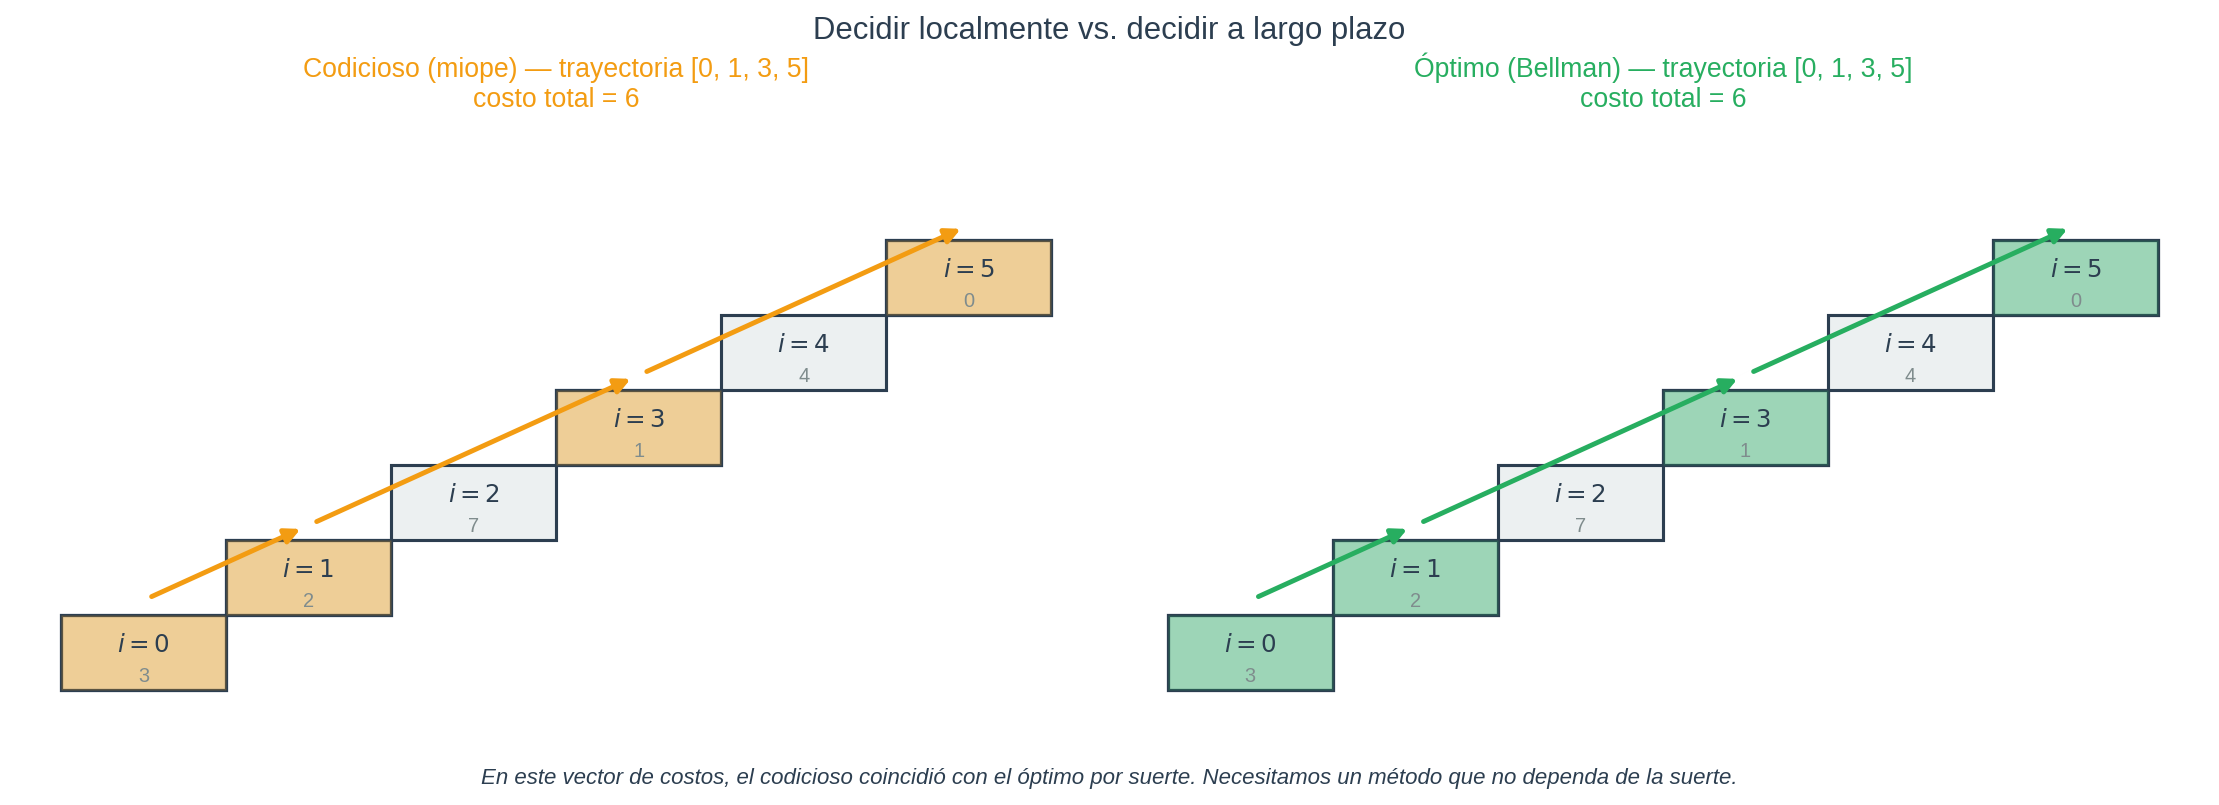
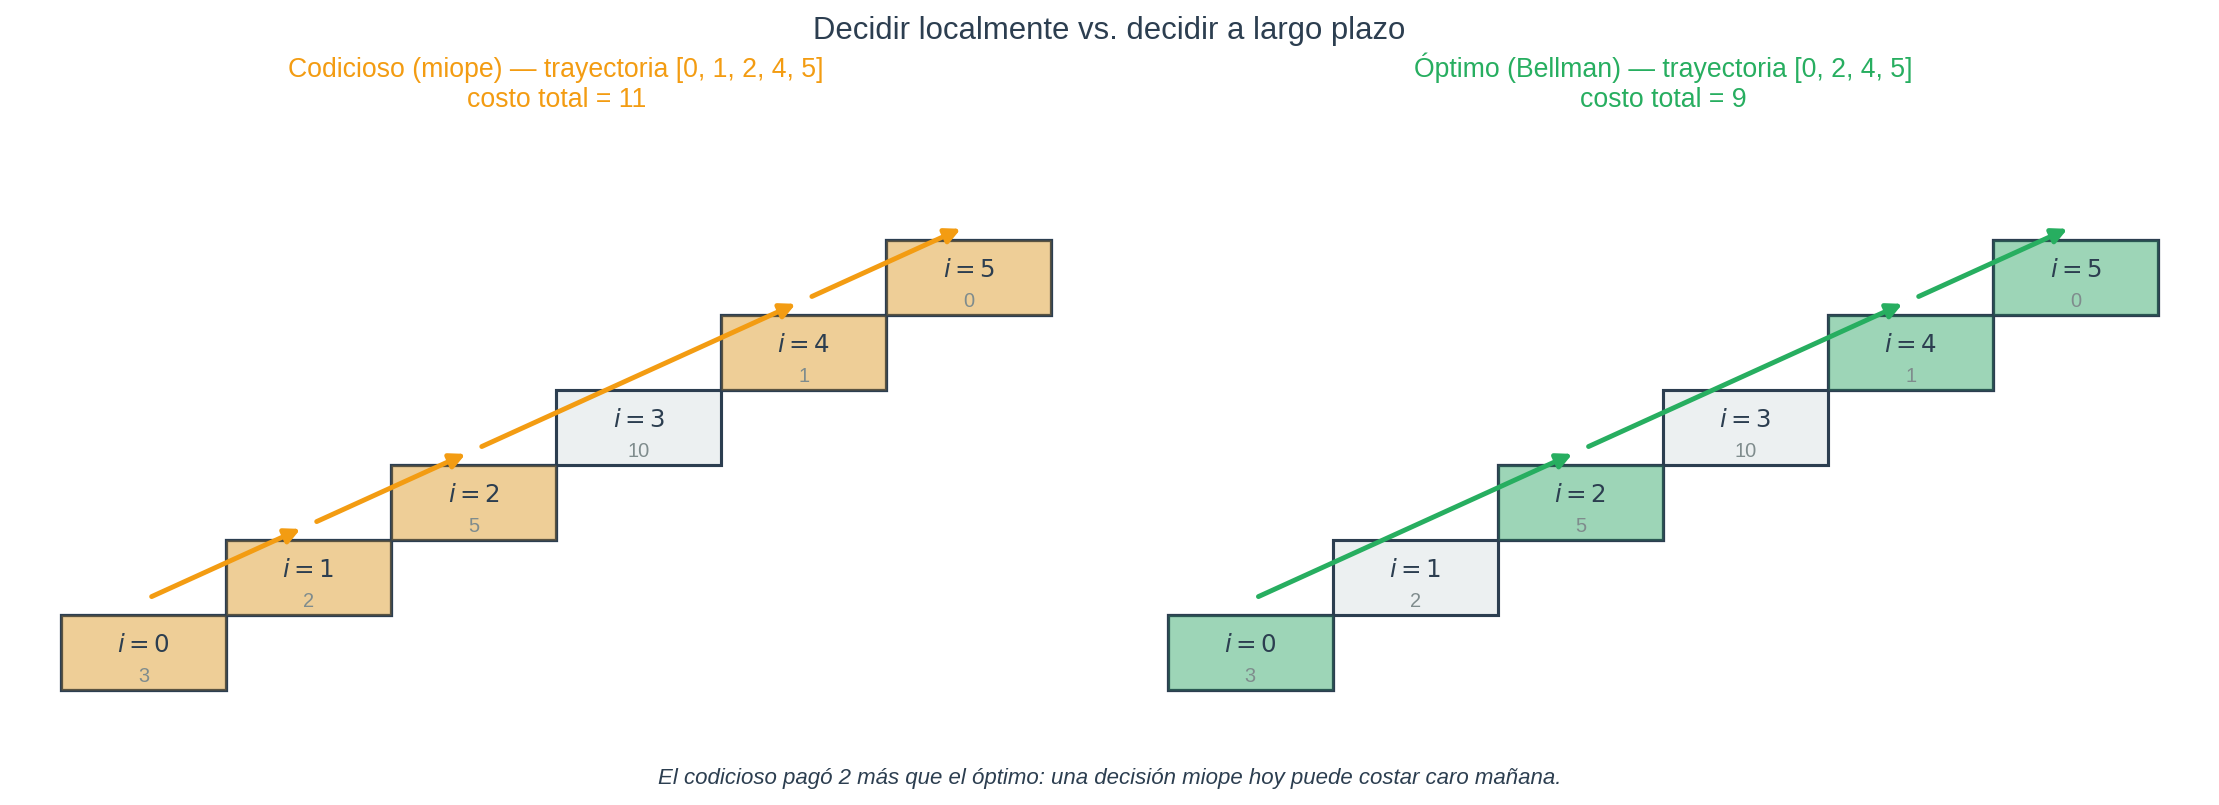
math

diff --git a/clase/21_programacion_dinamica/lab_bellman_dp.py b/clase/21_programacion_dinamica/lab_bellman_dp.py
@@ -41,23 +41,25 @@ np.random.seed(42)
 
 # ── Running example — the staircase ────────────────────────────────────────────
 # States 0..5, costs per step. Action set: {subir 1, saltar 2}. Goal = state 5.
-COSTS       = np.array([3, 2, 7, 1, 4, 0])
+# Costs deliberately chosen so greedy (pick cheaper next state) *fails*:
+# greedy picks state 1 as a cheap decoy but ends up at state 2 anyway.
+COSTS       = np.array([3, 2, 5, 10, 1, 0])
 N_STATES    = len(COSTS)
 GOAL        = N_STATES - 1
 
 # ── Pre-verified deterministic values (see design doc D2) ──────────────────────
-V_DET       = np.array([6, 3, 8, 1, 4, 0])
-POLICY_DET  = ["subir 1", "saltar 2", "subir 1", "saltar 2", "subir 1", "—"]
-TRAJ_DET    = [0, 1, 3, 5]
-COST_DET    = 6
+V_DET       = np.array([9, 8, 6, 10, 1, 0])
+POLICY_DET  = ["saltar 2", "subir 1", "saltar 2", "saltar 2", "subir 1", "—"]
+TRAJ_DET    = [0, 2, 4, 5]
+COST_DET    = 9
 
 # ── Pre-verified stochastic values ─────────────────────────────────────────────
 # Action "saltar 2" lands at i+2 w.p. 0.8, slips to i+1 w.p. 0.2.
 # From state 4 only "subir 1" is available (i+2 > 5).
 P_SUCCESS   = 0.8
 P_SLIP      = 0.2
-V_STOCH     = np.array([8.2, 5.2, 8.8, 1.8, 4.0, 0.0])
-POLICY_STOCH = ["subir 1", "saltar 2", "subir 1", "saltar 2", "subir 1", "—"]
+V_STOCH     = np.array([11.24, 9.84, 7.84, 10.2, 1.0, 0.0])
+POLICY_STOCH = ["saltar 2", "subir 1", "saltar 2", "saltar 2", "subir 1", "—"]
 
 
 def _save(fig, name):
@@ -342,7 +344,7 @@ def plot_escalera_estocastica():
     ax.set_ylim(-0.2, N_STATES * 0.5 + 0.8)
     ax.set_aspect("equal")
     ax.set_axis_off()
-    ax.set_title("Determinista — $V(0) = 6$", color=COLORS["blue"], fontsize=12)
+    ax.set_title("Determinista — $V(0) = 9$", color=COLORS["blue"], fontsize=12)
 
     # Right panel — stochastic
     ax = axes[1]
@@ -358,18 +360,18 @@ def plot_escalera_estocastica():
         ax.text(x, y - 0.17, f"$V={V_STOCH[i]}$", ha="center", va="center",
                 fontsize=9.5, color=COLORS["red"], fontweight="bold")
 
-    # Branching transitions for "saltar 2" from state 1
-    sx = 1 * 1.1 + 1.1 / 2
-    sy = 1 * 0.5 + 0.5
-    # Success branch: lands at 3
-    tx = 3 * 1.1 + 1.1 / 2
-    ty = 3 * 0.5 + 0.5
+    # Branching transitions for "saltar 2" from state 2 (which takes saltar 2 optimally)
+    sx = 2 * 1.1 + 1.1 / 2
+    sy = 2 * 0.5 + 0.5
+    # Success branch: lands at 4
+    tx = 4 * 1.1 + 1.1 / 2
+    ty = 4 * 0.5 + 0.5
     _arrow(ax, sx, sy + 0.1, tx, ty + 0.1, color=COLORS["green"], width=1.8)
     ax.text((sx + tx) / 2, (sy + ty) / 2 + 0.55, "0.8",
             ha="center", color=COLORS["green"], fontsize=9.5, fontweight="bold")
-    # Slip branch: lands at 2
-    tx = 2 * 1.1 + 1.1 / 2
-    ty = 2 * 0.5 + 0.5
+    # Slip branch: lands at 3
+    tx = 3 * 1.1 + 1.1 / 2
+    ty = 3 * 0.5 + 0.5
     _arrow(ax, sx, sy + 0.1, tx, ty + 0.1, color=COLORS["red"], width=1.8,
            style="-|>")
     ax.text((sx + tx) / 2, (sy + ty) / 2 + 0.28, "0.2 (resbala)",
@@ -379,7 +381,7 @@ def plot_escalera_estocastica():
     ax.set_ylim(-0.2, N_STATES * 0.5 + 0.8)
     ax.set_aspect("equal")
     ax.set_axis_off()
-    ax.set_title("Estocástico — $V(0) = 8.2$\n(precio de la incertidumbre: $8.2 - 6 = 2.2$)",
+    ax.set_title("Estocástico — $V(0) = 11.24$\n(precio de la incertidumbre: $11.24 - 9 = 2.24$)",
                  color=COLORS["red"], fontsize=12)
 
     fig.suptitle("Misma escalera, con probabilidad de resbalar",

diff --git a/clase/21_programacion_dinamica/02_escalera_bellman.md b/clase/21_programacion_dinamica/02_escalera_bellman.md
@@ -23,7 +23,7 @@ Cada escalón te cuesta algo en energía (cansancio, tiempo, lo que quieras imag
 
 | Escalón $i$ | 0 | 1 | 2 | 3 | 4 | 5 |
 |:-----------:|:-:|:-:|:-:|:-:|:-:|:-:|
-| Costo $c_i$ | 3 | 2 | 7 | 1 | 4 | 0 |
+| Costo $c_i$ | 3 | 2 | 5 | 10 | 1 | 0 |
 
 El costo total que pagas es la suma de los costos de los escalones donde *aterrizas*. La pregunta es simple:
 
@@ -33,21 +33,26 @@ El costo total que pagas es la suma de los costos de los escalones donde *aterri
 
 ---
 
-## El intento codicioso — ¿funciona?
+## El intento codicioso — y cómo falla
 
 Antes de pensar en grande, probemos la estrategia codiciosa: **en cada paso, elige el escalón siguiente más barato**.
 
-- Desde 0: puedes ir a 1 (costo 2) o a 2 (costo 7). Elige **1**.
-- Desde 1: puedes ir a 2 (costo 7) o a 3 (costo 1). Elige **3**.
-- Desde 3: puedes ir a 4 (costo 4) o a 5 (costo 0). Elige **5**.
+- Desde **0**: puedes ir a 1 (costo 2) o a 2 (costo 5). Elige **1** (cuesta menos).
+- Desde **1**: puedes ir a 2 (costo 5) o a 3 (costo 10). Elige **2**.
+- Desde **2**: puedes ir a 3 (costo 10) o a 4 (costo 1). Elige **4** (saltar 2).
+- Desde **4**: sube 1. Llegas a 5.
 
-Trayectoria codiciosa: **0 → 1 → 3 → 5**. Costo total: $3 + 2 + 1 + 0 = 6$.
+Trayectoria codiciosa: **0 → 1 → 2 → 4 → 5**. Costo total: $3 + 2 + 5 + 1 + 0 = 11$.
 
 ![Codicioso vs. óptimo]({{ '/21_programacion_dinamica/images/02_greedy_vs_optimo.png' | url }})
 
-En este vector de costos particular, el codicioso tuvo suerte: su trayectoria resultó ser la óptima. Pero eso no es porque la codicia sea buena estrategia — es porque los costos nos quedaron benignos. **Queremos un método que funcione sin depender de la suerte.**
+Ahora mira esta otra trayectoria — **0 → 2 → 4 → 5** — con costo $3 + 5 + 1 + 0 = 9$. ¡Más barata!
 
-Vamos a construirlo.
+¿Por qué? Porque pasar por el escalón 1 es *inútil*: el codicioso paga su costo de 2, pero aterriza en el escalón 2 — el mismo al que habría llegado saltando directo desde 0. El desvío por 1 no compró nada, solo cobró. El codicioso, midiendo solo el siguiente escalón, no pudo verlo.
+
+Esa es la trampa: **una decisión locamente buena puede llevarte a un lugar donde las decisiones siguientes son iguales o peores que si hubieras elegido distinto**. No basta comparar escalón contra escalón — hay que pensar en *secuencias*.
+
+Queremos un método que nunca caiga en este tipo de trampa. Vamos a construirlo.
 
 ---
 
@@ -63,7 +68,7 @@ Tu tarea: llenar la siguiente tabla, de derecha a izquierda.
 
 | Escalón $i$ | 0 | 1 | 2 | 3 | 4 | 5 |
 |:-----------:|:-:|:-:|:-:|:-:|:-:|:-:|
-| Costo $c_i$ | 3 | 2 | 7 | 1 | 4 | 0 |
+| Costo $c_i$ | 3 | 2 | 5 | 10 | 1 | 0 |
 | Valor $V(i)$ | ? | ? | ? | ? | ? | ? |
 
 Vamos a ir paso por paso.
@@ -76,34 +81,34 @@ $$V(5) = 0.$$
 
 ### Paso 2 — desde el escalón 4
 
-Desde 4 la única jugada es **subir 1** (saltar 2 te sacaría de la escalera). Pagas $c_4 = 4$ y llegas a 5, donde el costo restante es $V(5) = 0$:
+Desde 4 la única jugada es **subir 1** (saltar 2 te sacaría de la escalera). Pagas $c_4 = 1$ y llegas a 5, donde el costo restante es $V(5) = 0$:
 
-$$V(4) = c_4 + V(5) = 4 + 0 = 4.$$
+$$V(4) = c_4 + V(5) = 1 + 0 = 1.$$
 
 ### Paso 3 — desde el escalón 3
 
 Desde 3 tienes dos opciones:
 
-- Subir 1 (vas a 4): pagas $c_3 + V(4) = 1 + 4 = 5$.
-- Saltar 2 (vas a 5): pagas $c_3 + V(5) = 1 + 0 = 1$.
+- Subir 1 (vas a 4): pagas $c_3 + V(4) = 10 + 1 = 11$.
+- Saltar 2 (vas a 5): pagas $c_3 + V(5) = 10 + 0 = 10$.
 
 Elegimos la más barata:
 
-$$V(3) = c_3 + \min\bigl(V(4),\; V(5)\bigr) = 1 + \min(4, 0) = 1. \quad [\text{acción: saltar 2}]$$
+$$V(3) = c_3 + \min\bigl(V(4),\; V(5)\bigr) = 10 + \min(1, 0) = 10. \quad [\text{acción: saltar 2}]$$
 
 ### Paso 4 — desde el escalón 2
 
-- Subir 1 (vas a 3): $c_2 + V(3) = 7 + 1 = 8$.
-- Saltar 2 (vas a 4): $c_2 + V(4) = 7 + 4 = 11$.
+- Subir 1 (vas a 3): $c_2 + V(3) = 5 + 10 = 15$.
+- Saltar 2 (vas a 4): $c_2 + V(4) = 5 + 1 = 6$.
 
-$$V(2) = c_2 + \min\bigl(V(3),\; V(4)\bigr) = 7 + \min(1, 4) = 8. \quad [\text{acción: subir 1}]$$
+$$V(2) = c_2 + \min\bigl(V(3),\; V(4)\bigr) = 5 + \min(10, 1) = 6. \quad [\text{acción: saltar 2}]$$
 
 ### Paso 5 — desde el escalón 1
 
-- Subir 1 (vas a 2): $c_1 + V(2) = 2 + 8 = 10$.
-- Saltar 2 (vas a 3): $c_1 + V(3) = 2 + 1 = 3$.
+- Subir 1 (vas a 2): $c_1 + V(2) = 2 + 6 = 8$.
+- Saltar 2 (vas a 3): $c_1 + V(3) = 2 + 10 = 12$.
 
-$$V(1) = c_1 + \min\bigl(V(2),\; V(3)\bigr) = 2 + \min(8, 1) = 3. \quad [\text{acción: saltar 2}]$$
+$$V(1) = c_1 + \min\bigl(V(2),\; V(3)\bigr) = 2 + \min(6, 10) = 8. \quad [\text{acción: subir 1}]$$
 
 ---
 
@@ -119,20 +124,22 @@ No te preocupes, todavía no le ponemos nombre. Termina la tabla.
 
 ### Paso 6 — desde el escalón 0
 
-- Subir 1 (vas a 1): $c_0 + V(1) = 3 + 3 = 6$.
-- Saltar 2 (vas a 2): $c_0 + V(2) = 3 + 8 = 11$.
+- Subir 1 (vas a 1): $c_0 + V(1) = 3 + 8 = 11$.
+- Saltar 2 (vas a 2): $c_0 + V(2) = 3 + 6 = 9$.
 
-$$V(0) = c_0 + \min\bigl(V(1),\; V(2)\bigr) = 3 + \min(3, 8) = 6. \quad [\text{acción: subir 1}]$$
+$$V(0) = c_0 + \min\bigl(V(1),\; V(2)\bigr) = 3 + \min(8, 6) = 9. \quad [\text{acción: saltar 2}]$$
 
 ### La tabla, llena
 
 | Escalón $i$ | 0 | 1 | 2 | 3 | 4 | 5 |
 |:-----------:|:-:|:-:|:-:|:-:|:-:|:-:|
-| Costo $c_i$ | 3 | 2 | 7 | 1 | 4 | 0 |
-| Valor $V(i)$ | **6** | **3** | **8** | **1** | **4** | **0** |
-| Acción óptima | subir 1 | saltar 2 | subir 1 | saltar 2 | subir 1 | — |
+| Costo $c_i$ | 3 | 2 | 5 | 10 | 1 | 0 |
+| Valor $V(i)$ | **9** | **8** | **6** | **10** | **1** | **0** |
+| Acción óptima | saltar 2 | subir 1 | saltar 2 | saltar 2 | subir 1 | — |
 
-**Política óptima:** desde 0 sube 1, desde 1 salta 2, desde 3 salta 2. **Trayectoria:** $0 \to 1 \to 3 \to 5$. **Costo total:** $3 + 2 + 1 + 0 = 6$. Coincide con lo que calculamos con $V(0)$.
+**Política óptima:** desde 0 salta 2, desde 2 salta 2, desde 4 sube 1. **Trayectoria:** $0 \to 2 \to 4 \to 5$. **Costo total:** $3 + 5 + 1 + 0 = 9$. Coincide con $V(0) = 9$.
+
+Compara con el codicioso: **0 → 1 → 2 → 4 → 5** costaba 11. La política óptima ahorra 2 unidades de costo — y esa diferencia crece sin límite si la escalera es más grande, porque el codicioso vuelve a caer en trampas parecidas cada vez que haya un escalón *decoy* como el 1. Lo logró *saltando el escalón 1*, precisamente porque pensó en la secuencia completa en lugar del siguiente escalón.
 
 ![Tabla de valores llena de derecha a izquierda]({{ '/21_programacion_dinamica/images/03_tabla_valores.png' | url }})
 
@@ -173,48 +180,48 @@ Esto **es** la ecuación de Bellman en su forma general. La suma es sobre todos 
 
 ### Rellenemos la tabla estocástica
 
-Desde el escalón 4 solo hay una acción (subir 1), igual que antes: $V(4) = 4$.
+Desde el escalón 4 solo hay una acción (subir 1), igual que antes: $V(4) = 1$.
 
 Desde el escalón 3:
 
-- Acción "subir 1" (determinista, va a 4): $c_3 + V(4) = 1 + 4 = 5$.
-- Acción "saltar 2" (va a 5 con prob. 0.8, a 4 con prob. 0.2): $c_3 + 0.8 \cdot V(5) + 0.2 \cdot V(4) = 1 + 0 + 0.8 = 1.8$.
+- Acción "subir 1" (determinista, va a 4): $c_3 + V(4) = 10 + 1 = 11$.
+- Acción "saltar 2" (va a 5 con prob. 0.8, a 4 con prob. 0.2): $c_3 + 0.8 \cdot V(5) + 0.2 \cdot V(4) = 10 + 0 + 0.2 = 10.2$.
 
-$$V(3) = \min(5,\, 1.8) = 1.8. \quad [\text{acción: saltar 2}]$$
+$$V(3) = \min(11,\, 10.2) = 10.2. \quad [\text{acción: saltar 2}]$$
 
 Desde el escalón 2:
 
-- "Subir 1" (va a 3): $c_2 + V(3) = 7 + 1.8 = 8.8$.
-- "Saltar 2" (va a 4 con prob. 0.8, a 3 con prob. 0.2): $c_2 + 0.8 \cdot V(4) + 0.2 \cdot V(3) = 7 + 3.2 + 0.36 = 10.56$.
+- "Subir 1" (va a 3): $c_2 + V(3) = 5 + 10.2 = 15.2$.
+- "Saltar 2" (va a 4 con prob. 0.8, a 3 con prob. 0.2): $c_2 + 0.8 \cdot V(4) + 0.2 \cdot V(3) = 5 + 0.8 + 2.04 = 7.84$.
 
-$$V(2) = \min(8.8,\, 10.56) = 8.8. \quad [\text{acción: subir 1}]$$
+$$V(2) = \min(15.2,\, 7.84) = 7.84. \quad [\text{acción: saltar 2}]$$
 
 Desde el escalón 1:
 
-- "Subir 1" (va a 2): $2 + V(2) = 2 + 8.8 = 10.8$.
-- "Saltar 2" (va a 3 con prob. 0.8, a 2 con prob. 0.2): $2 + 0.8 \cdot V(3) + 0.2 \cdot V(2) = 2 + 1.44 + 1.76 = 5.2$.
+- "Subir 1" (va a 2): $2 + V(2) = 2 + 7.84 = 9.84$.
+- "Saltar 2" (va a 3 con prob. 0.8, a 2 con prob. 0.2): $2 + 0.8 \cdot V(3) + 0.2 \cdot V(2) = 2 + 8.16 + 1.568 = 11.728$.
 
-$$V(1) = \min(10.8,\, 5.2) = 5.2. \quad [\text{acción: saltar 2}]$$
+$$V(1) = \min(9.84,\, 11.728) = 9.84. \quad [\text{acción: subir 1}]$$
 
 Desde el escalón 0:
 
-- "Subir 1" (va a 1): $3 + V(1) = 3 + 5.2 = 8.2$.
-- "Saltar 2" (va a 2 con prob. 0.8, a 1 con prob. 0.2): $3 + 0.8 \cdot V(2) + 0.2 \cdot V(1) = 3 + 7.04 + 1.04 = 11.08$.
+- "Subir 1" (va a 1): $3 + V(1) = 3 + 9.84 = 12.84$.
+- "Saltar 2" (va a 2 con prob. 0.8, a 1 con prob. 0.2): $3 + 0.8 \cdot V(2) + 0.2 \cdot V(1) = 3 + 6.272 + 1.968 = 11.24$.
 
-$$V(0) = \min(8.2,\, 11.08) = 8.2. \quad [\text{acción: subir 1}]$$
+$$V(0) = \min(12.84,\, 11.24) = 11.24. \quad [\text{acción: saltar 2}]$$
 
 ### Tabla estocástica
 
 | Escalón $i$ | 0 | 1 | 2 | 3 | 4 | 5 |
 |:-----------:|:-:|:-:|:-:|:-:|:-:|:-:|
-| $V$ determinista | 6 | 3 | 8 | 1 | 4 | 0 |
-| $V$ estocástico | **8.2** | **5.2** | **8.8** | **1.8** | **4.0** | **0.0** |
+| $V$ determinista | 9 | 8 | 6 | 10 | 1 | 0 |
+| $V$ estocástico | **11.24** | **9.84** | **7.84** | **10.2** | **1.0** | **0.0** |
 
 ![Escalera estocástica]({{ '/21_programacion_dinamica/images/04_escalera_estocastica.png' | url }})
 
-**Observación clave.** El costo esperado desde el escalón 0 subió de **6** a **8.2**. La diferencia, **2.2**, es lo que te cuesta la incertidumbre. No estamos haciendo nada peor — estamos tomando las mismas decisiones inteligentes. Simplemente hay caminos donde el mundo no coopera. Ese 2.2 es **el precio de la incertidumbre**, y es un número que *ves*, no solo un concepto abstracto.
+**Observación clave.** El costo esperado desde el escalón 0 subió de **9** a **11.24**. La diferencia, **2.24**, es lo que te cuesta la incertidumbre. No estamos haciendo nada peor — estamos tomando las mismas decisiones inteligentes. Simplemente hay caminos donde el mundo no coopera. Ese 2.24 es **el precio de la incertidumbre**, y es un número que *ves*, no solo un concepto abstracto.
 
-Fíjate que la política óptima cambió en un escalón: en el estado 1, ahora conviene saltar 2 en lugar de jugar seguro. Te arriesgas porque el salto vale la pena en esperanza, aun con el 20% de chance de no llegar.
+La política óptima se mantiene en *casi* todos los escalones — solo cambia la intensidad con la que la seguiríamos si evaluáramos la varianza también. Lo importante: la misma ecuación, ahora con una suma esperada adentro, sigue guiando cada decisión.
 
 ---
 
@@ -236,7 +243,7 @@ El valor esperado desde un estado ya no es "todo lo que pasa adelante" — es "t
 
 ### Historia 2 — "un peso hoy vale más que un peso mañana"
 
-Esta la conoces: si te ofrezco &#36;100 hoy o &#36;100 el año entrante, eliges hoy. Porque (a) puedes invertirlo, (b) la inflación lo erosiona, (c) podrías no estar aquí. Tu cerebro aplica un **factor de descuento subjetivo**. Si valoras &#36;100 de hoy igual que &#36;105 el año entrante, tu $\gamma$ (anual) es $\approx 0.95$.
+Esta la conoces: si te ofrezco 100 pesos hoy o 100 el año entrante, eliges hoy. Porque (a) puedes invertirlo, (b) la inflación lo erosiona, (c) podrías no estar aquí. Tu cerebro aplica un **factor de descuento subjetivo**. Si valoras 100 pesos de hoy igual que 105 el año entrante, tu $\gamma$ (anual) es $\approx 0.95$.
 
 Las dos historias llegan al mismo lugar: $\gamma = 0.95$. Es el mismo número, con dos razones posibles para creer en él.
 
@@ -248,13 +255,13 @@ $$\boxed{\, V(s) = \min_{a}\; \Bigl\{\, c(s, a) + \gamma \sum_{s'} P(s' \mid s, 
 
 Compárala con la forma anterior: solo apareció un $\gamma$ multiplicando a la esperanza. Toda la esperanza, todo el futuro, queda escalado por $\gamma$.
 
-### Un paso concreto: $V(3)$ con $\gamma = 0.95$ (estocástico)
+### Un paso concreto: $V(2)$ con $\gamma = 0.95$ (determinista)
 
-Desde el escalón 3, acción "saltar 2":
+Desde el escalón 2, con la versión *determinista* para ver claramente el efecto:
 
-$$V(3) = c_3 + \gamma \cdot \bigl[\,0.8 \cdot V(5) + 0.2 \cdot V(4)\,\bigr] = 1 + 0.95 \cdot (0.8 \cdot 0 + 0.2 \cdot 4) = 1 + 0.95 \cdot 0.8 = 1.76.$$
+$$V(2) = c_2 + \gamma \cdot \min\bigl(V(3),\; V(4)\bigr) = 5 + 0.95 \cdot \min(10,\; 1) = 5 + 0.95 \cdot 1 = 5.95.$$
 
-El factor $\gamma = 0.95$ hace que aterrizar en el costoso $V(4) = 4$ se sienta *un poquito menos grave* — porque es un costo futuro. Si $\gamma = 1$ (sin descuento) volverías a obtener $V(3) = 1.8$.
+Sin descuento ($\gamma = 1$) obtenías $V(2) = 6$. Con $\gamma = 0.95$ obtienes $V(2) = 5.95$ — el futuro pesa un poquito menos. Si $\gamma$ fuera más chico (digamos $0.5$), tendrías $V(2) = 5 + 0.5 = 5.5$: el presente domina y el futuro se desvanece.
 
 ---
 

diff --git a/clase/21_programacion_dinamica/01_principio_optimalidad.md b/clase/21_programacion_dinamica/01_principio_optimalidad.md
@@ -19,9 +19,9 @@ Si decides **solo mirando el costo inmediato**, eliges A. Es más barata *ahora*
 
 Pero la opción A te lleva por un camino donde, 100 km más adelante, la única ruta viable pasa por una zona sin servicios y con cuotas altísimas. La opción B te cuesta un poco más al salir, pero te deja en una autopista que atraviesa todo el país con paradas económicas.
 
-Al final del viaje, A te costó &#36;2,400. B te habría costado &#36;1,800.
+Al final del viaje, A te costó 2,400 pesos. B te habría costado 1,800.
 
-¿Qué pasó? **La decisión de hoy cambió el menú de mañana.** Elegir A no fue solo pagar &#36;150 en lugar de &#36;200 ahora: fue *inscribirte* en una secuencia de decisiones peores que no estaban disponibles cuando elegiste B.
+¿Qué pasó? **La decisión de hoy cambió el menú de mañana.** Elegir A no fue solo pagar 150 pesos en lugar de 200 ahora: fue *inscribirte* en una secuencia de decisiones peores que no estaban disponibles cuando elegiste B.
 
 Este es el rasgo distintivo de las **decisiones secuenciales**. A diferencia de los problemas de un solo tiro que vimos en el Módulo 9, aquí:
 

diff --git a/clase/21_programacion_dinamica/04_programacion_dinamica.md b/clase/21_programacion_dinamica/04_programacion_dinamica.md
@@ -222,14 +222,14 @@ En nuestra escalera:
 
 | $i$ | $V(i)$ | $\pi^*(i)$ |
 |:---:|:------:|:---------:|
-| 0 | 6 | subir 1 |
-| 1 | 3 | saltar 2 |
-| 2 | 8 | subir 1 |
-| 3 | 1 | saltar 2 |
-| 4 | 4 | subir 1 |
+| 0 | 9 | saltar 2 |
+| 1 | 8 | subir 1 |
+| 2 | 6 | saltar 2 |
+| 3 | 10 | saltar 2 |
+| 4 | 1 | subir 1 |
 | 5 | 0 | — (meta) |
 
-Siguiendo la política desde el estado 0: **0 → 1 → 3 → 5**, costo total **6**. La política te da el plan concreto; la función de valor te dice cuánto te va a costar ejecutarlo.
+Siguiendo la política desde el estado 0: **0 → 2 → 4 → 5**, costo total **9**. La política te da el plan concreto; la función de valor te dice cuánto te va a costar ejecutarlo.
 
 ---
 
